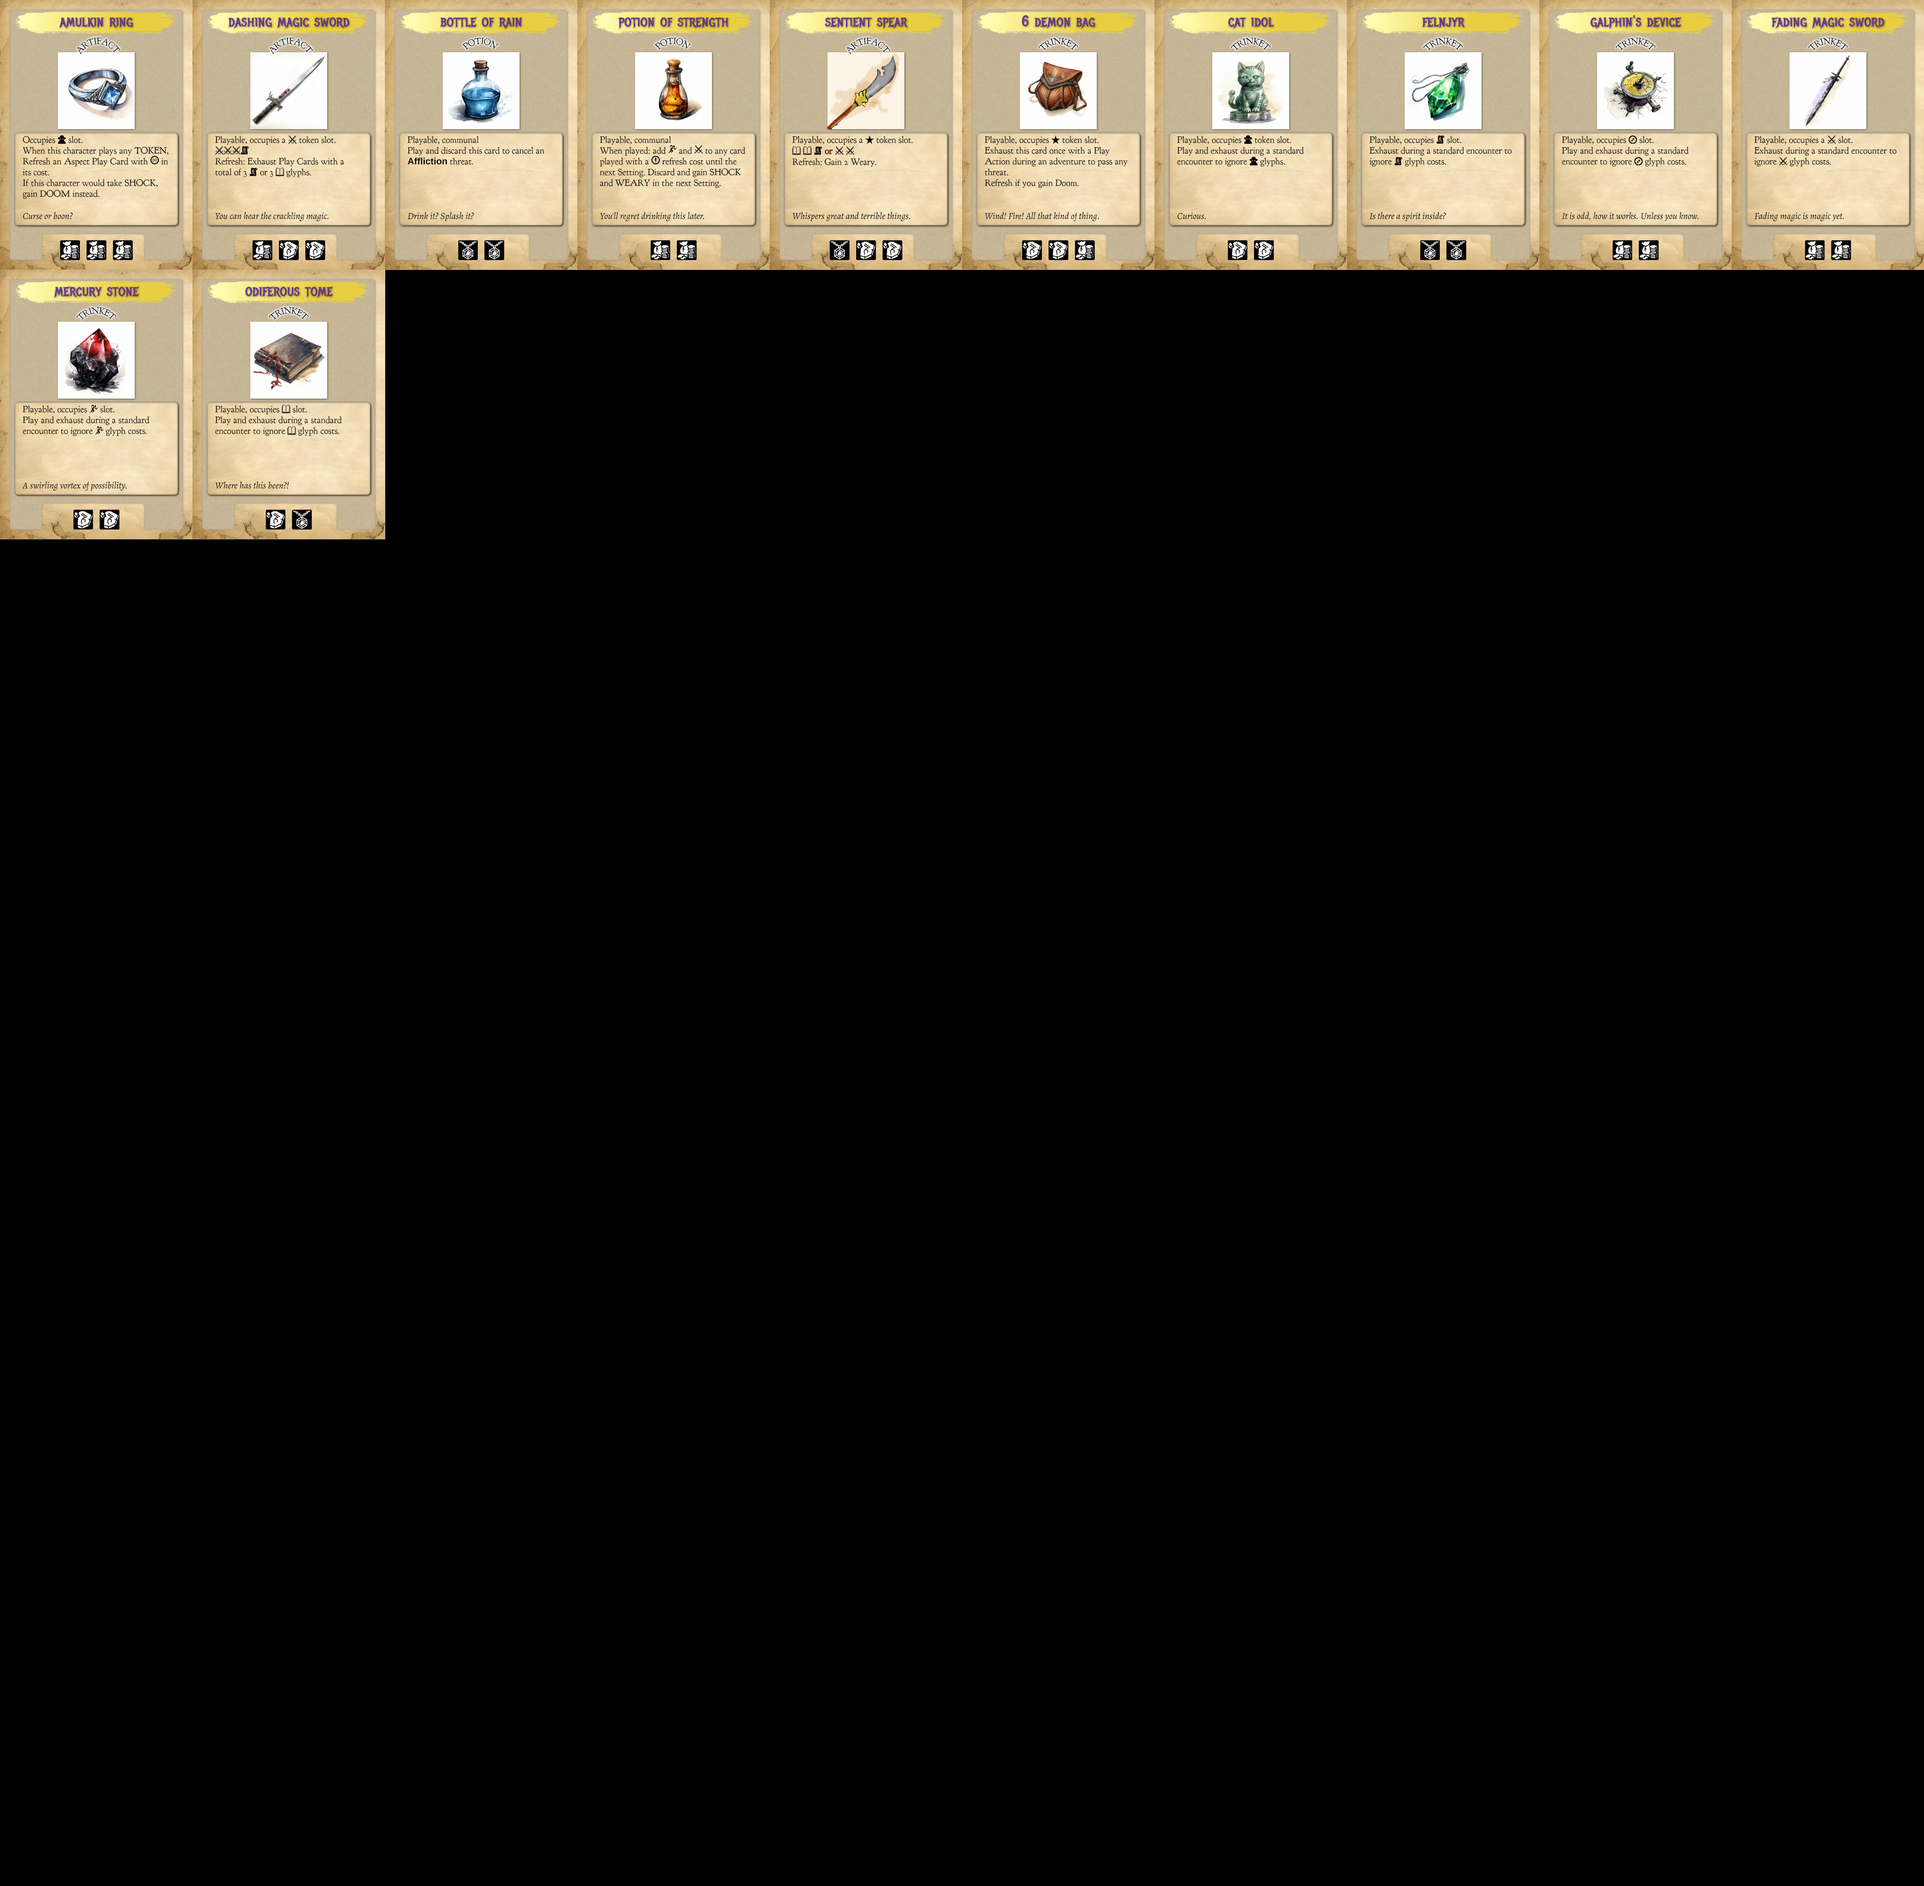
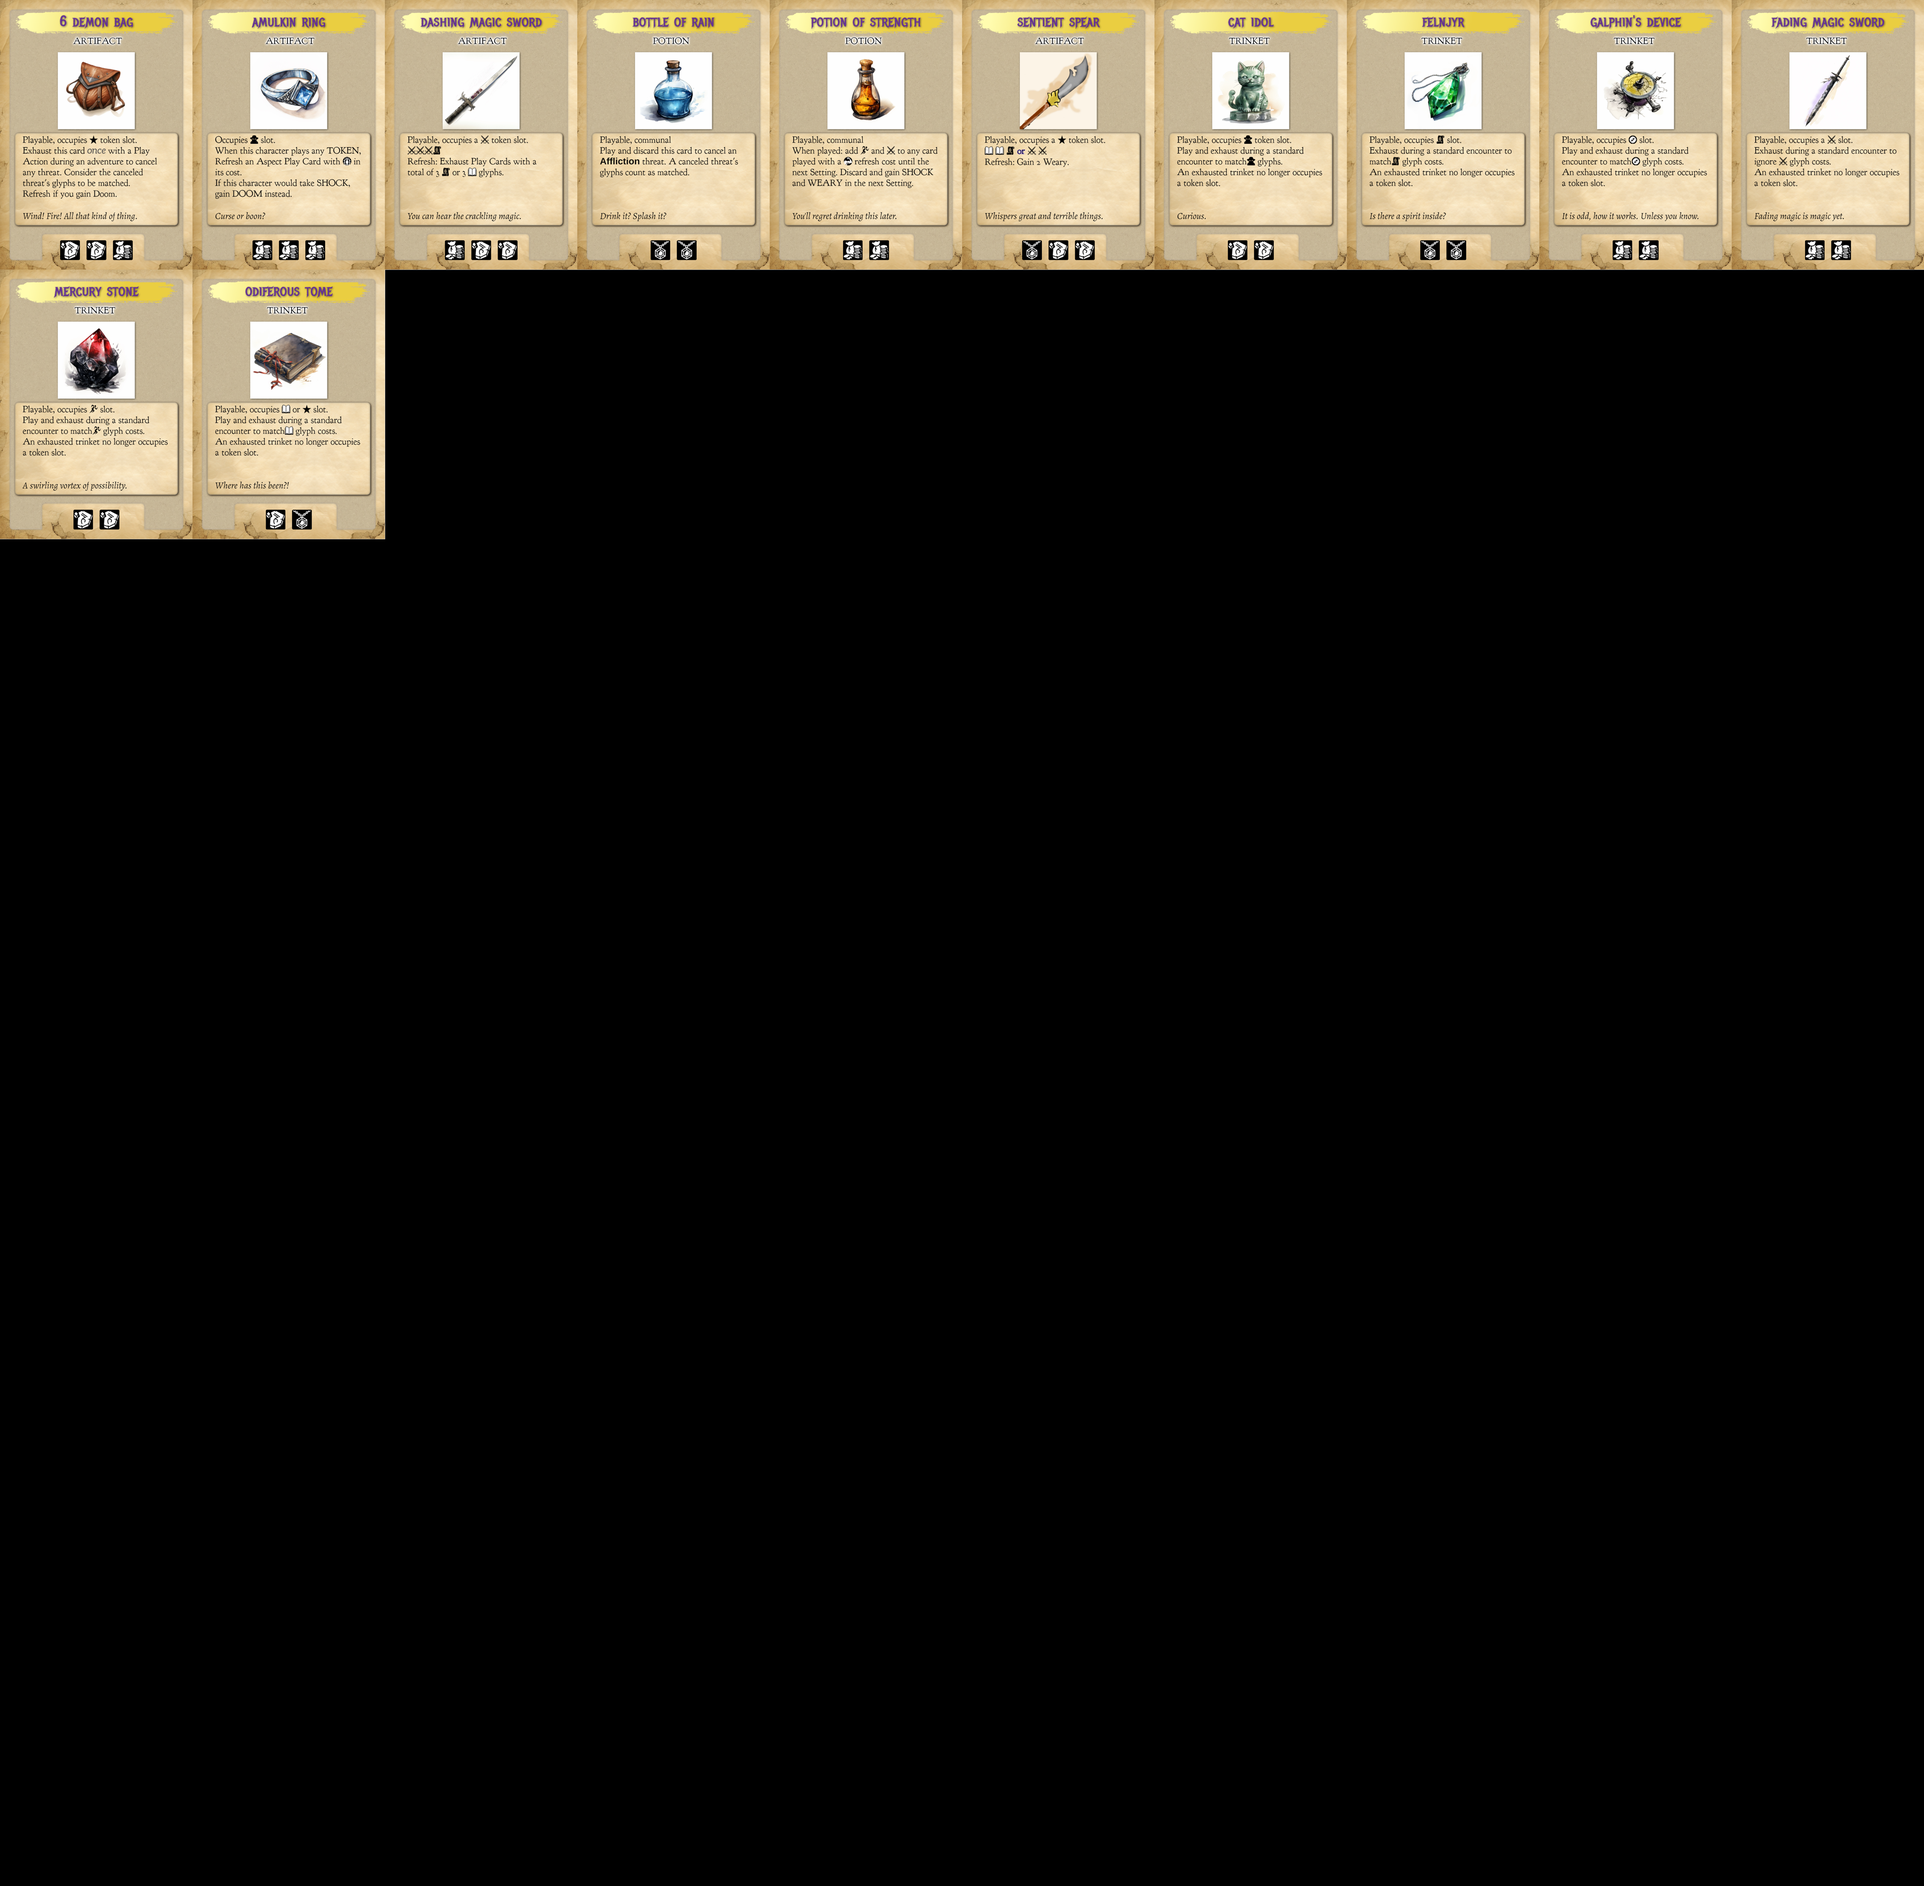
modified multiple cards to get closer to finalized. Characters reduced hand size by 1

diff --git a/rule_snippets/settings.md b/rule_snippets/settings.md
@@ -123,10 +123,41 @@ Wild Lands
 	The Long Graveyard - setting
 	The Warded Forest - setting
 	What is this Place - setting
-	Some Wild Land Encounter with internal encounts (4)
+	Frightful Maw - setting
 
 
-# Expansion Settings
+## Start Locations (2)
+Bol Herata
+- market
+	any 3 same treasure: magic token, lore token
+	2x gem pendant: any unguent/potion
+	1 treasure: any other token
+- training
+	expensive: gain a playcard (up to handsize maximum)
+	expensive: advance a level - only handsize and token types are awarded, additional attributes must be bought?
+	average: gain spirit?
+	average: gain mind?
+	cheap: gain body?
+
+
+Esa Avte
+- market:
+	one of each: action token, cunning token, luxury provisions
+	2x tablet: lore token, magic token
+	1 treasure: any other token
+
+- training
+	expensive: gain spirit
+	expensive: advance level
+	average: gain playcard
+	average: gain body
+	cheap:	gain mind
+
+
+
+# Expansions
+## Tales of Yicht and other Malformed Oddities
+
 Gorrik Bir 	- + quest
 	Gorrik Bir - destination
 	Abandonded Mine - setting
@@ -150,16 +181,29 @@ Yagishamot - + quest
 	The Long Dark - setting
 	Yagishamot Plain - setting
 
-Bel Za Luom	- quest
-
-The Filth Folk
 
 
+# Settings to add
+## Specials
+- goat path: 1 overland encounter
+- hidden temple: 1 interior encounter
+- twisted caverns: 2 interior encounters + some kind of Action + Navigation cost between encounters
+## Commons (these all have one action to allow gaining prestige)
+- Rolling Plains: Action- Nav:Prestige, overland, overland, tower, overland
+- Silent Settlement: Action- Lor:Prestige, overland, interior, overland
+- Abandoned Towers: Action- Mag:Prestige, interior, overland, interior
+- Sprawling Ruins: Action- Fgt:Prestige, interior, interior, interior
+- Buried Corridors: Action- Cun:Prestige, interior, tower, interior
+## Commons 2 (these all have a tower and a happy rest!)
+- Tranquil Citadel: interior, tower, rest, interior
+- Forest: overland, tower, rest, overland
+- Old Village: interior, tower, rest, overland
+- Decrepit Walls: overland, tower, rest, interior
 
-# Core Settings
 
 
-# Setting 12 Card Expansions
+
+# Setting 12 Card Expansion
 _The Fluff of the World_
 Generic Lands, these should all be 1,2,1 (interior, outdoor, interior OR outdoor, interior, outdoor AND 1,1,rest,1 and 2,2,rest,2)
 ## Settings (6)
@@ -170,34 +214,9 @@ Generic Lands, these should all be 1,2,1 (interior, outdoor, interior OR outdoor
 	Ancient Ruins, 3x interior
 	Caverns, 3x interior
 	
-## Start Locations (2)
-Bol Herata
-Prepare:
-- market
-	any 3 same treasure: magic token, lore token
-	2x gem pendant: any unguent/potion
-	1 treasure: any other token
-- training
-	expensive: gain a playcard (up to handsize maximum)
-	expensive: advance a level - only handsize and token types are awarded, additional attributes must be bought?
-	average: gain spirit?
-	average: gain mind?
-	cheap: gain body?
+## Start Locations
 
+## Quests
 
+## Encounters
 
-Esa Avte
-- market:
-	one of each: action token, cunning token, luxury provisions
-	2x tablet: lore token, magic token
-	1 treasure: any other token
-
-- training
-	expensive: gain spirit
-	expensive: advance level
-	average: gain playcard
-	average: gain body
-	cheap:	gain mind
-
-
-## Quests (2)

diff --git a/text_only_rules/Book.md b/text_only_rules/Book.md
@@ -1,0 +1,33 @@
+
+#Setup
+Insert image of the tableau layout of stacks of cards.
+
+#Components
+POKER SIZED CARDS - everything character related
+Character Cards - 12 characters with 2 levels, one front and one back
+Attribute Cards - 18 attribute cards showing the appropriate peril on the back
+Perils Deck - 18 peril cards not associated with attributes
+Treasures Deck - 12 rare treasures
+Play Cards - 54 play cards used to create characters
+Tokens Deck - 30 tokens with the "double" version on the back
+
+TAROT SIZED CARDS - everything encounter related
+Interior Encounters - 24
+Overland Encounters - 24
+Boss Encounters - 12
+
+SQUARE CARDS - everything with quests and locations
+Start Locations - 2
+Quests - 4
+Settings - 28
+
+PUNCHOUTS
+Loot Counters - 108 treasure punchouts
+
+
+
+#Introduction
+
+
+#Gameplay
+

diff --git a/rule_snippets/encounters.boss.md b/rule_snippets/encounters.boss.md
@@ -1,7 +1,6 @@
 # Boss Encounters
 
-On some encounter cards, there is a crown instead of the typical overland/interior encounter symbol. This means a particularly tough encounter is to be defeated. These elite encounters typically come two to a pack, each with 4 sub-encounters.
-The main card will tell how it is defeated.
+On some encounter cards, there is a tower instead of the typical overland/interior encounter symbol. This means a particularly tough encounter is to be defeated. 
 
 Examples
 
